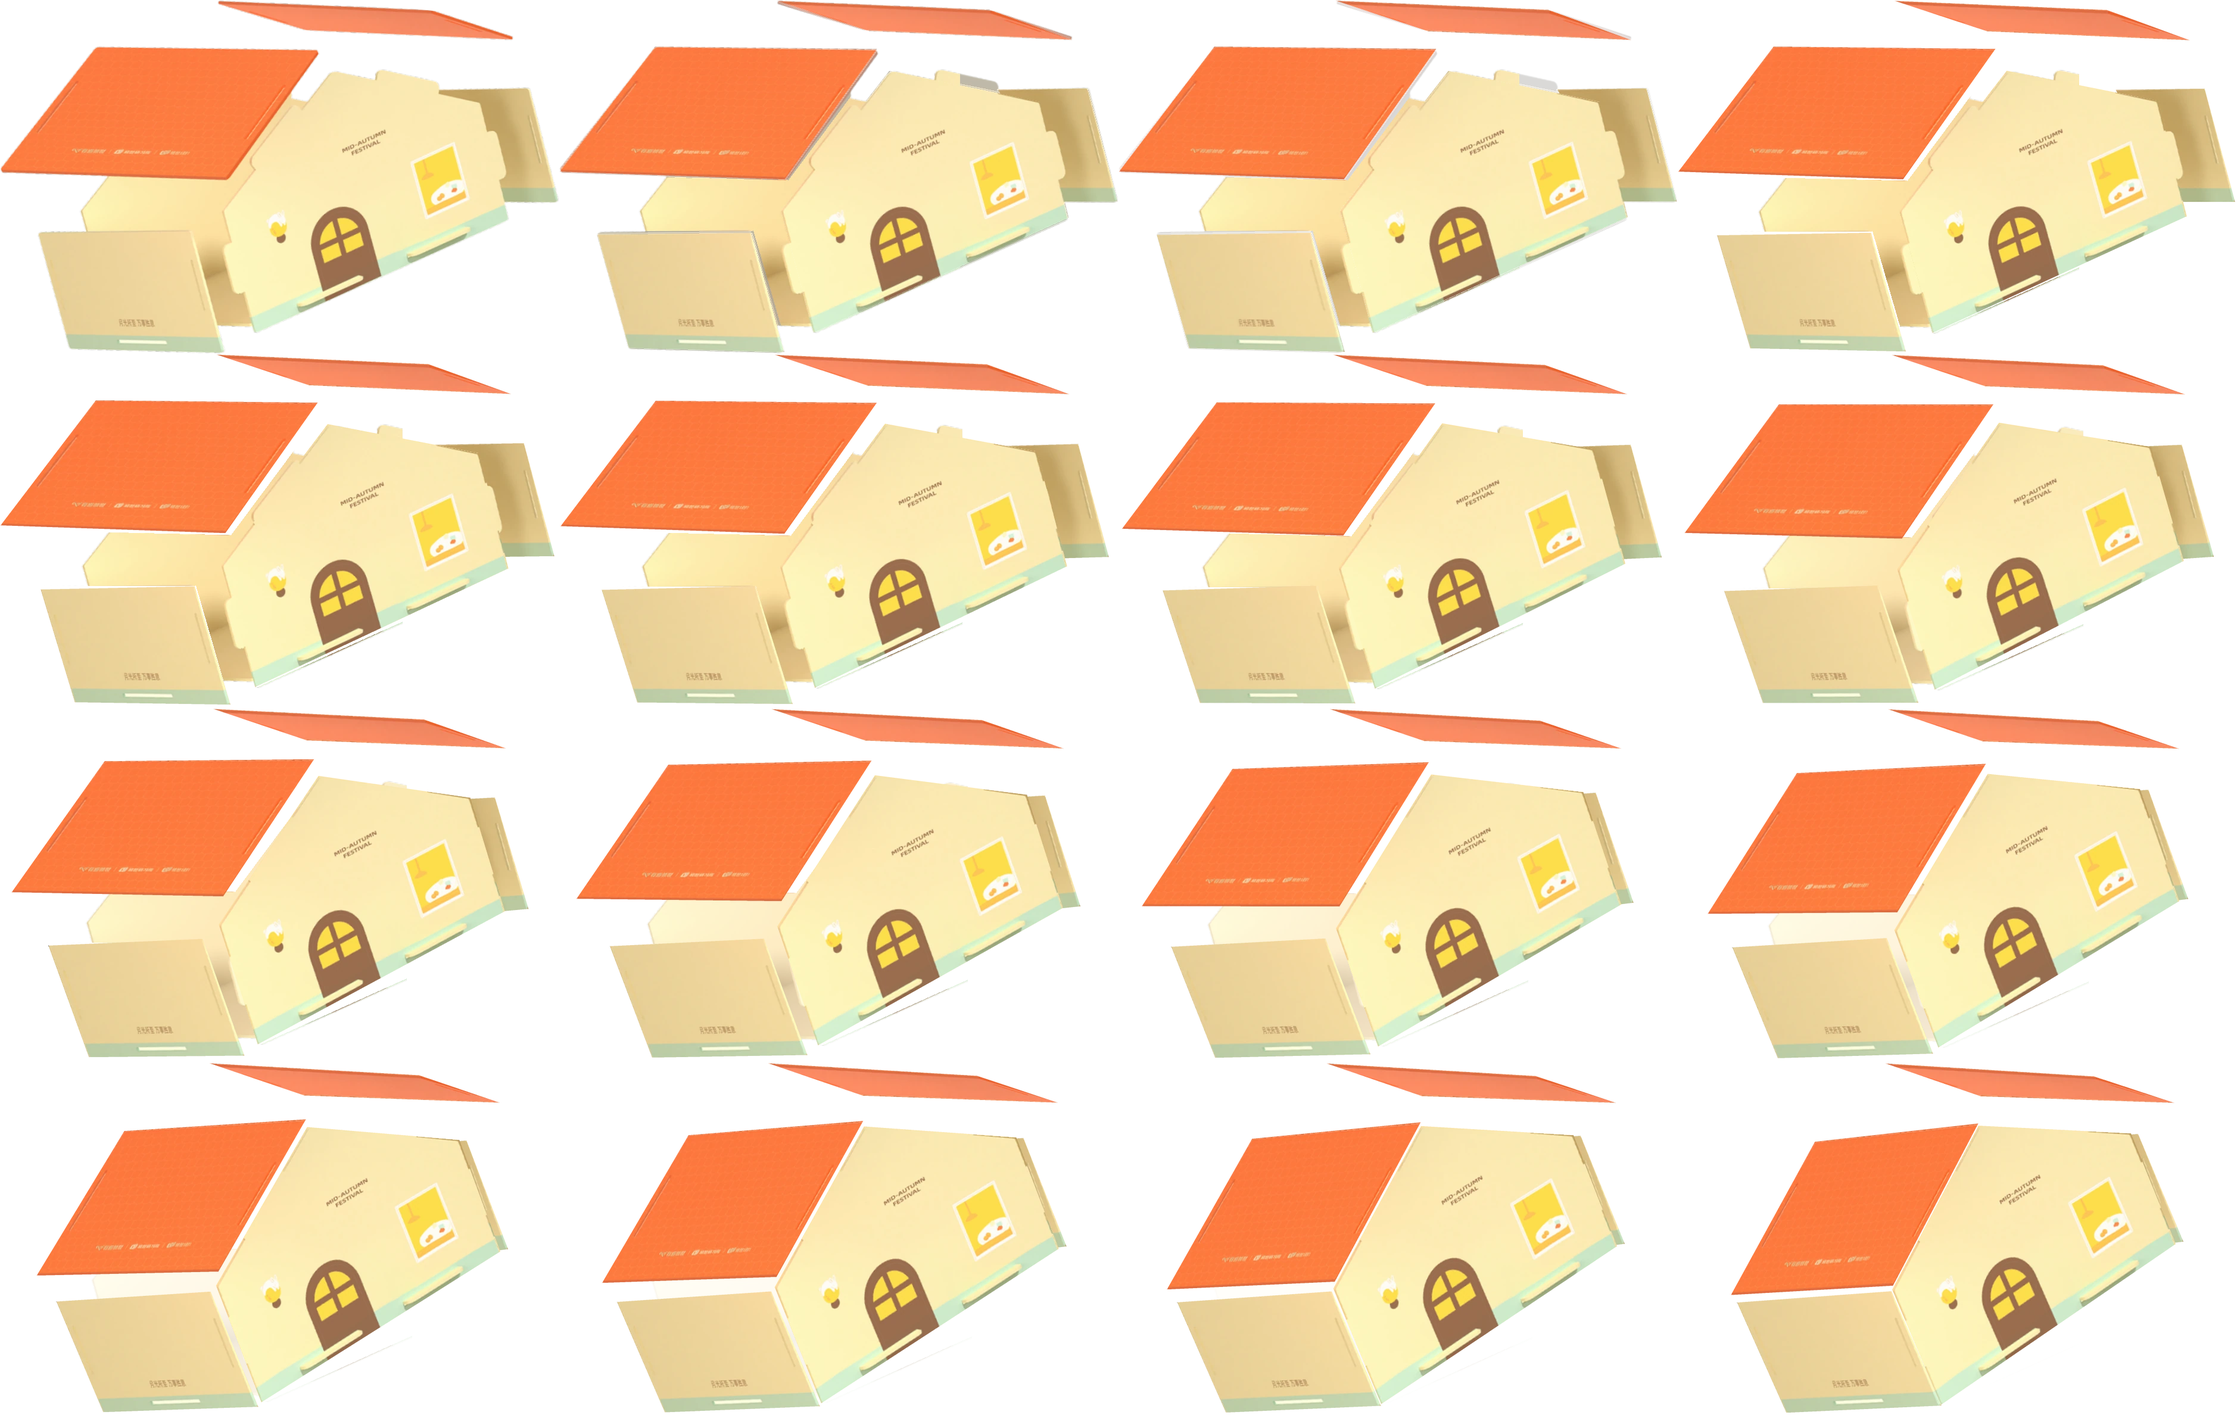
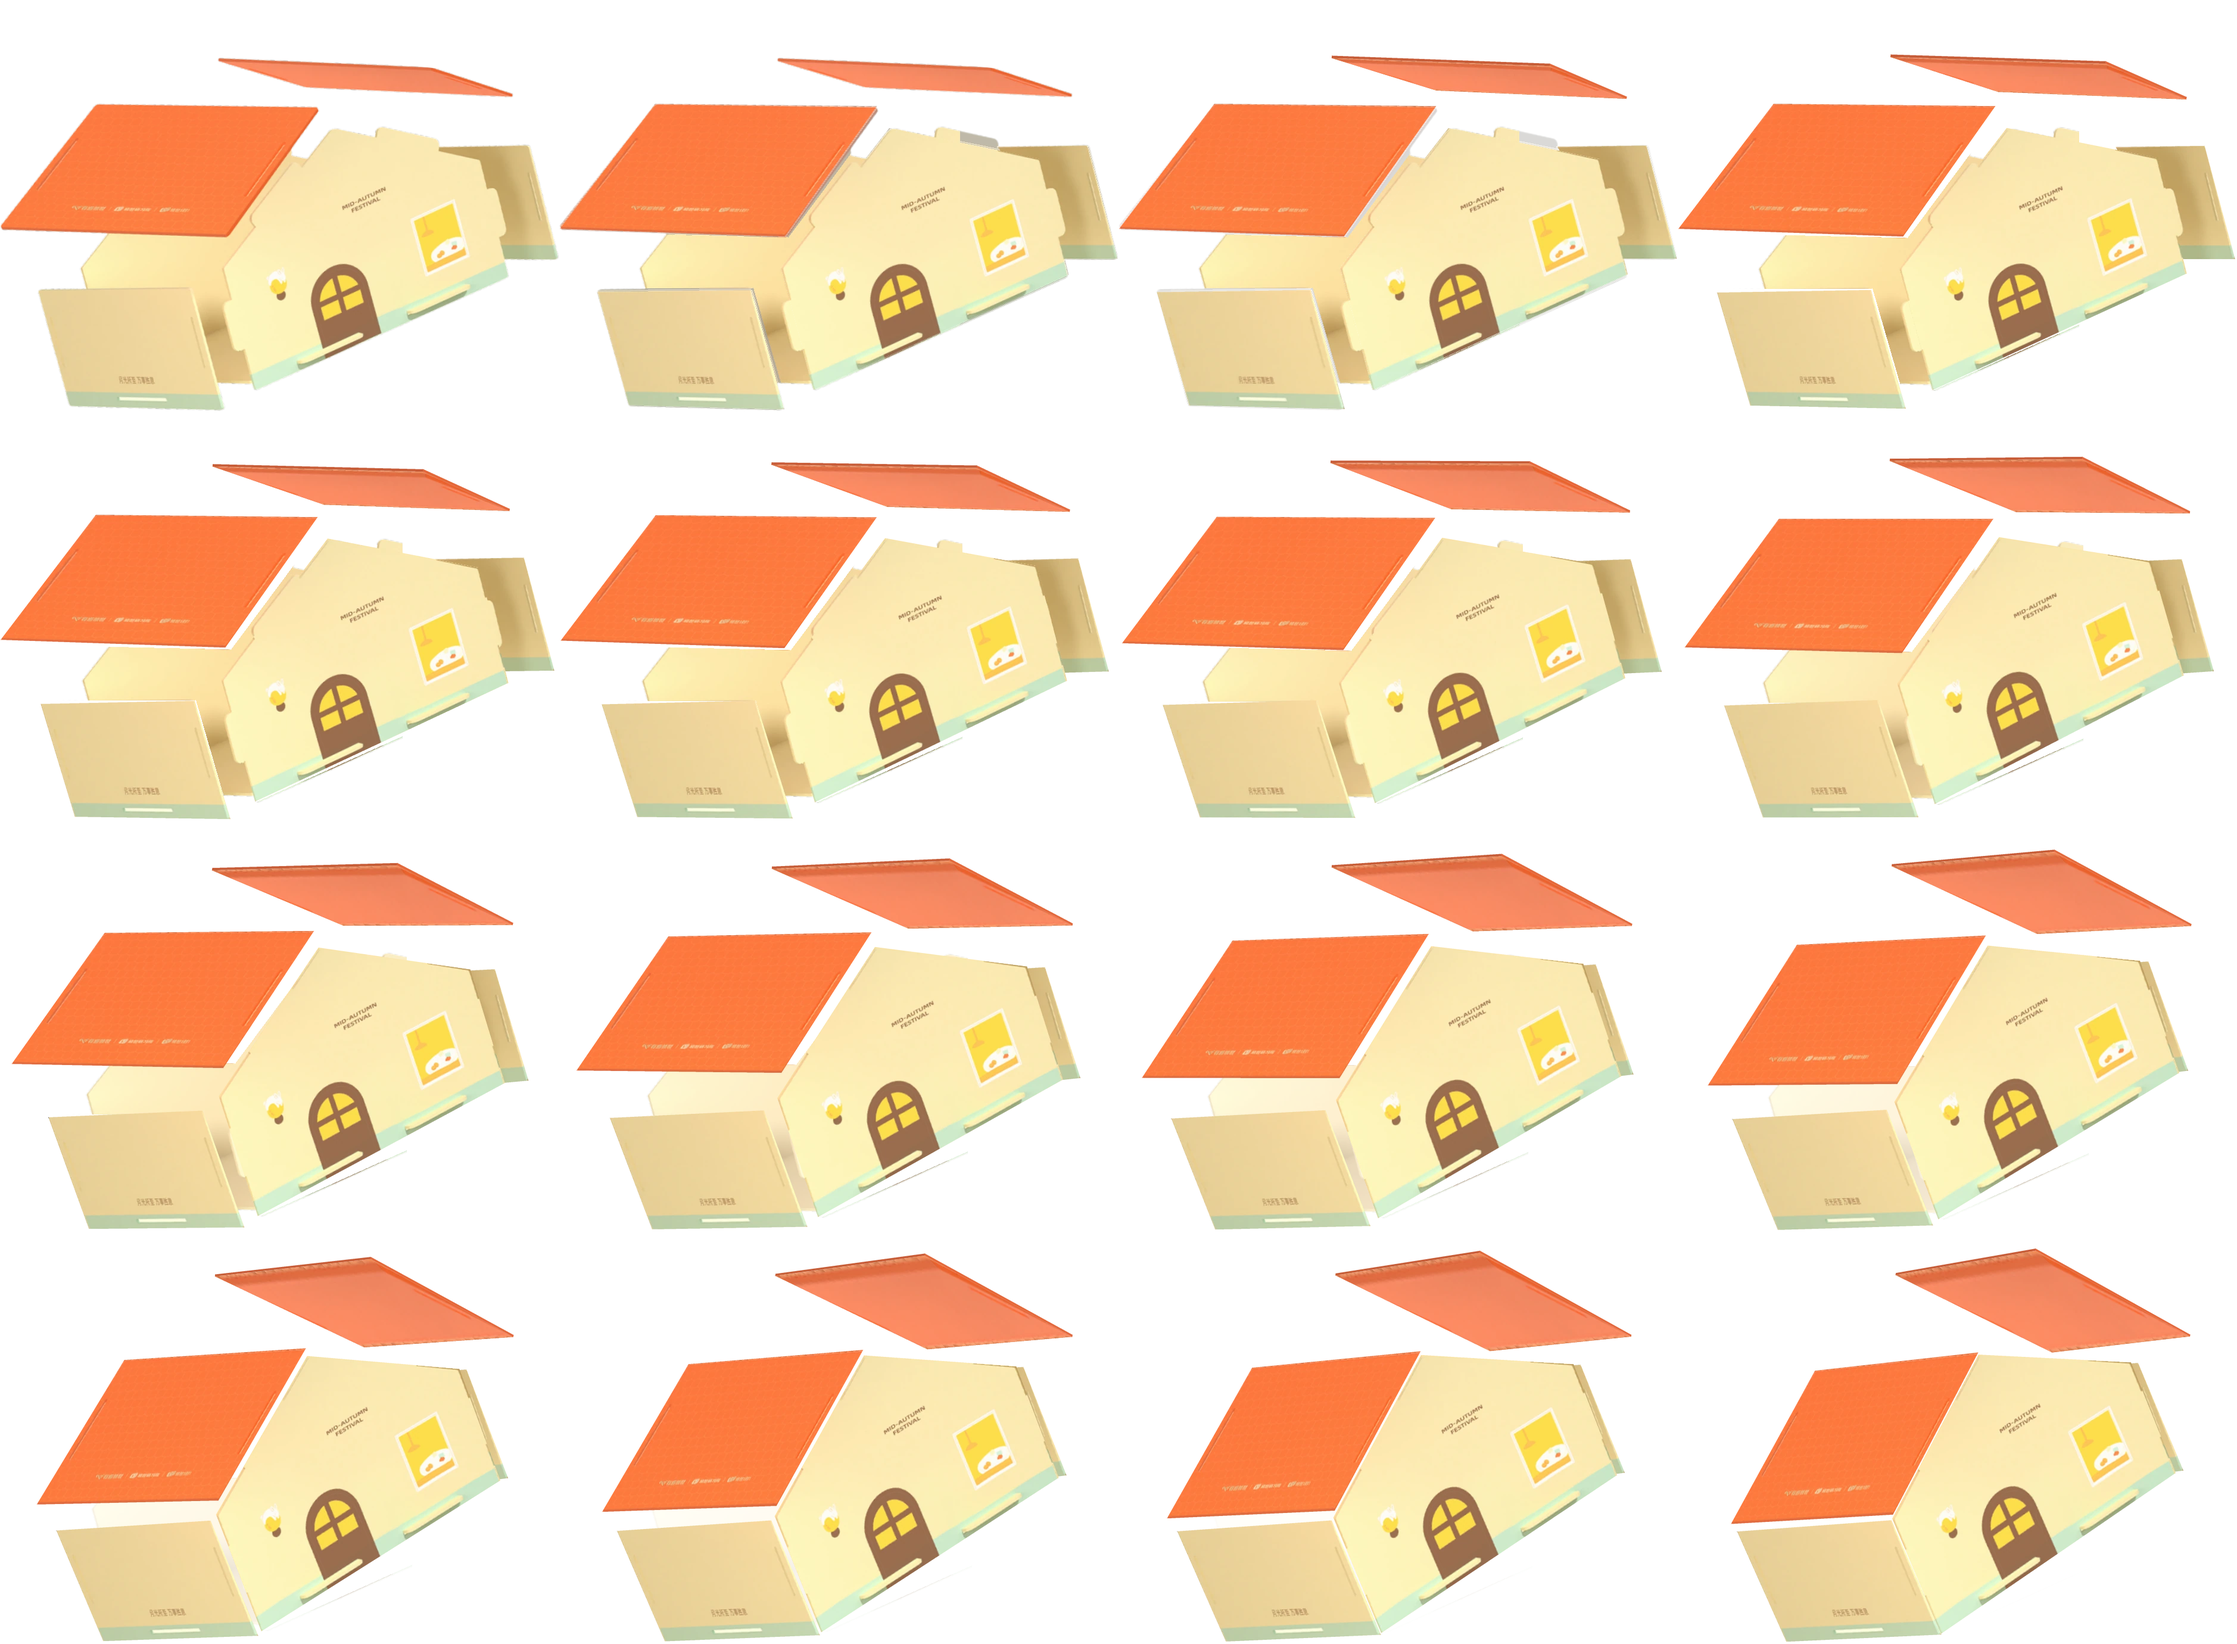
Rotate the far roof in perspective and seat it on the shared ridge

Changed region(s): [[0.0, 0.0, 1.0, 1.0]]

diff --git a/brand-house-motion.js b/brand-house-motion.js
@@ -1,7 +1,8 @@
 import { playHouseSnap, stopHouseSound, unlockHouseSound } from './brand-house-sound.js';
 
 const frameWidth = 939;
-const frameHeight = 594;
+// The atlas includes space above the resting house for the far roof's rotation.
+const frameHeight = 690;
 const framesPerSecond = 24;
 const firstContact = 18;
 const secondContact = 31;
@@ -121,6 +122,7 @@ export function createHouseAssembly({ createElement: h, useEffect, useRef, useSt
         className: 'brand-house__animation', 'aria-hidden': true }),
       h('button', {
         type: 'button', className: 'brand-product__trigger',
+        style: phase === 'playing' ? { top: 'auto', height: 'auto', aspectRatio: `${frameWidth} / ${frameHeight}` } : undefined,
         'aria-label': `播放${product.label}动效`,
         'aria-pressed': phase === 'playing' || phase === 'loading',
         onPointerEnter: (event) => {

diff --git a/brand-product-motion.css b/brand-product-motion.css
@@ -62,6 +62,11 @@
   pointer-events: none;
 }
 
+.brand-house__animation {
+  top: auto;
+  height: auto;
+}
+
 .brand-product[data-effect="packages"] {
   --product-duration: 2.2s;
 }
